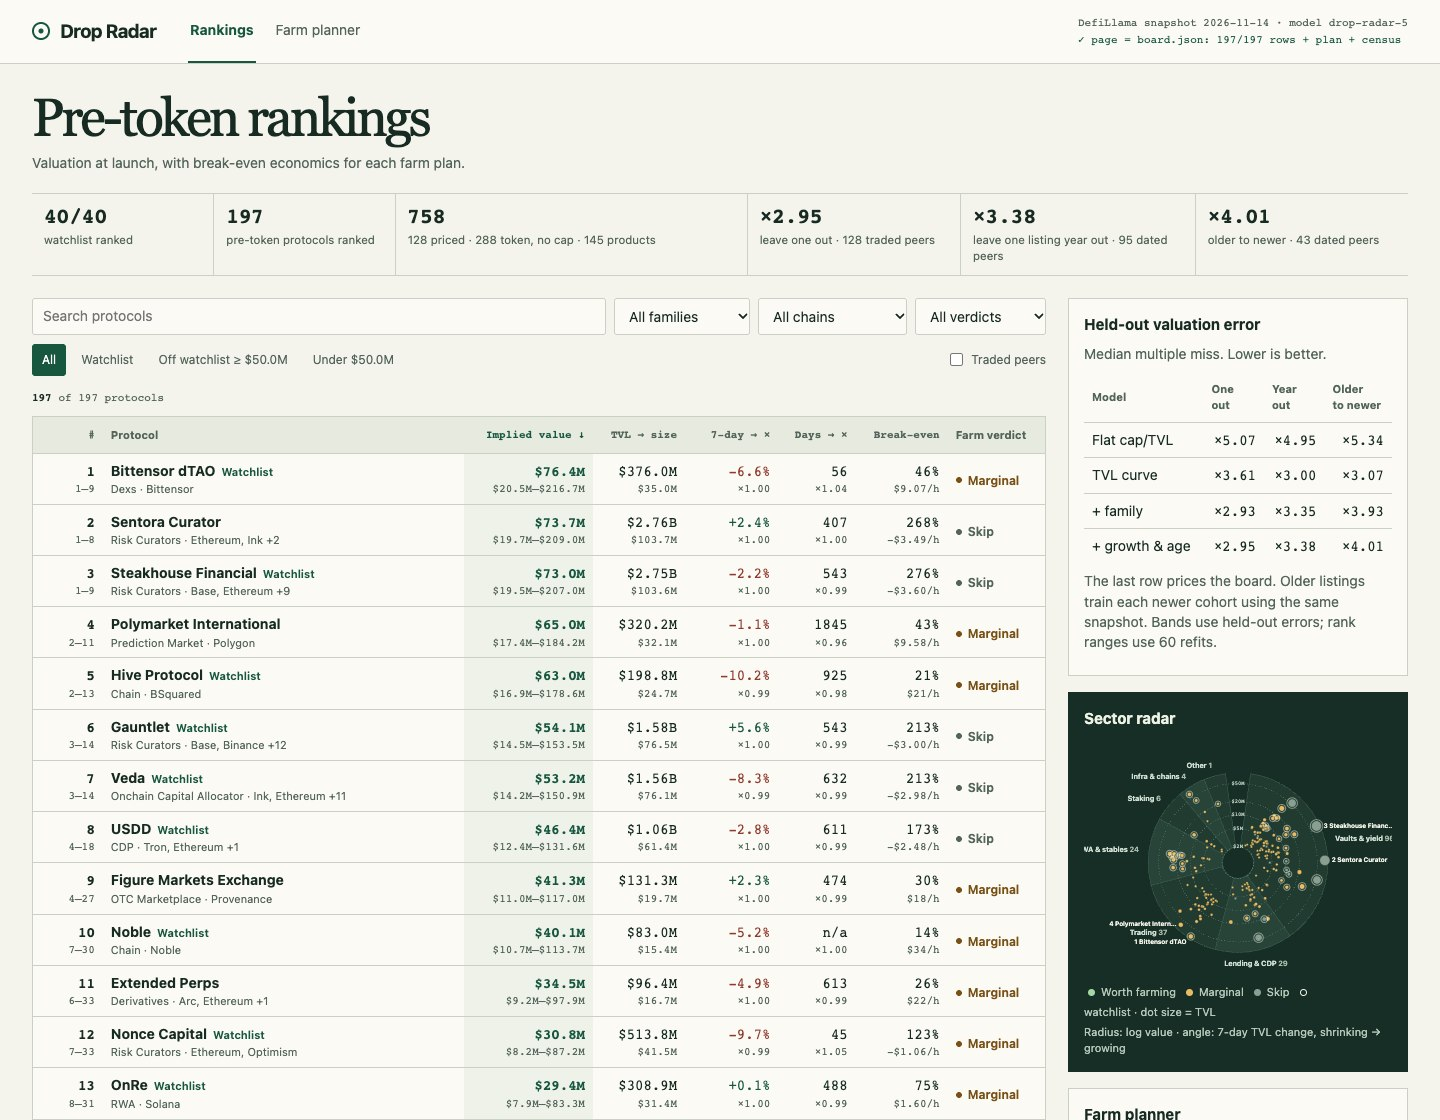
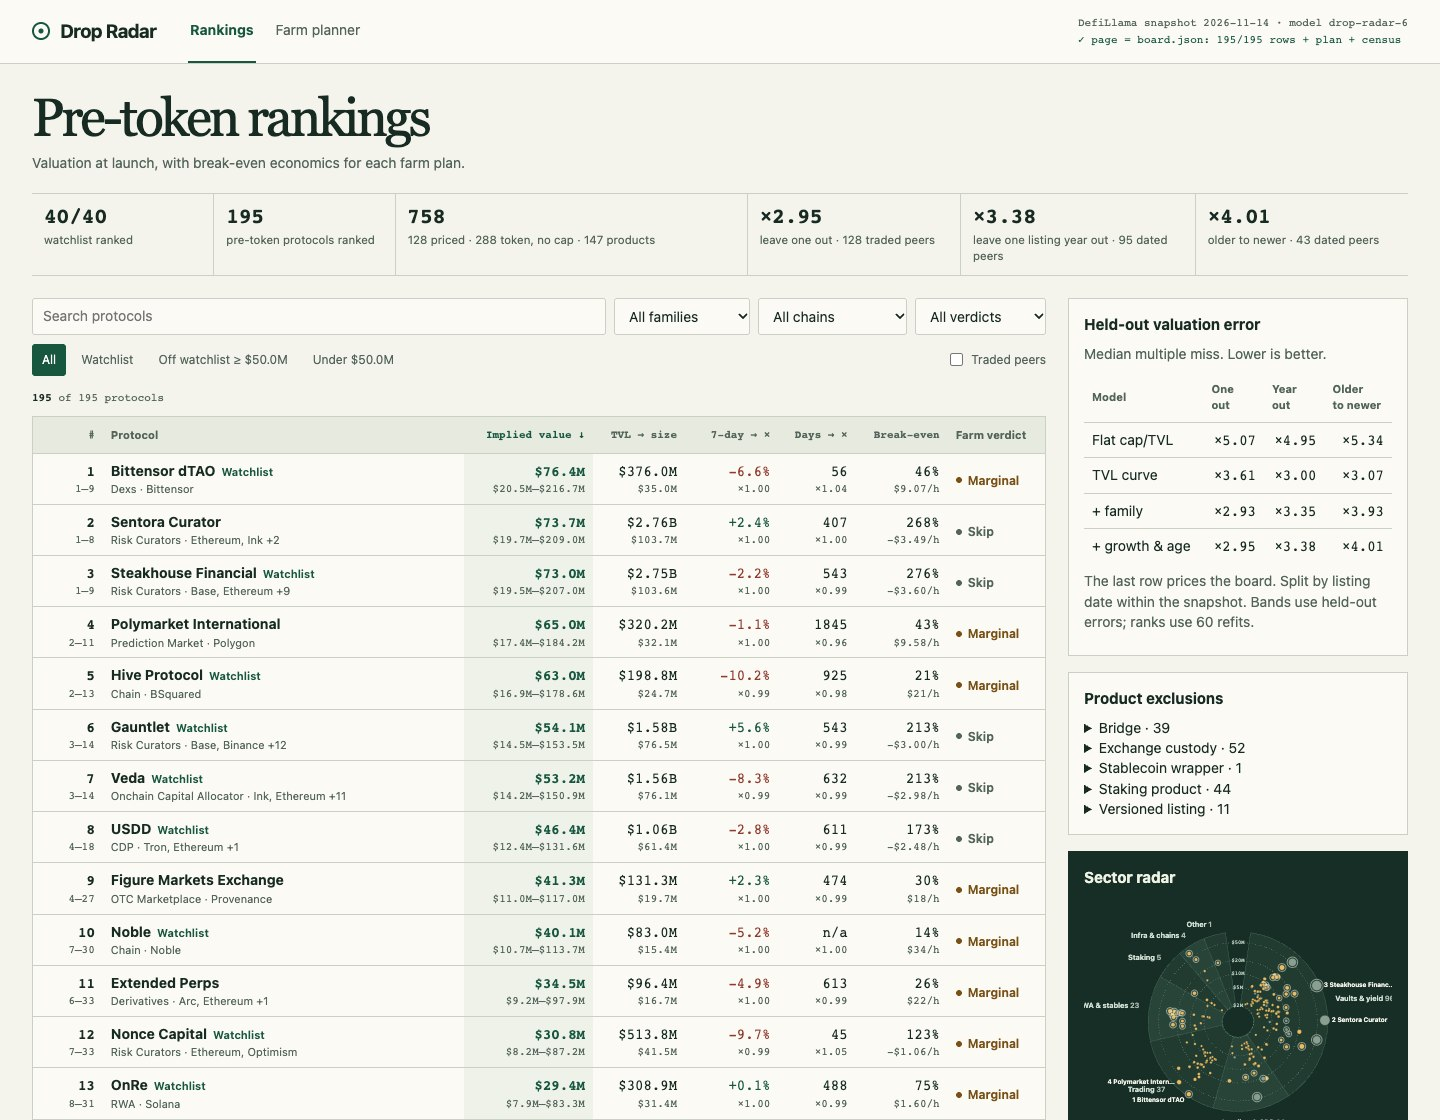
fix: audit derivative products and require supported farm routes

Changed region(s): [[0.7188, 0.5, 1.0, 1.0]]

diff --git a/dashboard/model.js b/dashboard/model.js
@@ -1,11 +1,9 @@
-/* Drop Radar model (drop-radar-5). One file, two hosts: the browser page loads it as a script and main.ts
- * requires it, so board.json and the page come from the same function, buildRadar(snapshot).
- * Standard JavaScript only; deterministic (no clock, seeded resampling). No protocol name appears here. */
+/* Deterministic model shared by main.ts and the offline dashboard. */
 (function (root) {
   'use strict';
 
   var CFG = {
-    version: 'drop-radar-5',
+    version: 'drop-radar-6',
     shrink_k: 4,          // pseudo-peers pulling a family tilt toward 1
     growth_lo: -25, growth_hi: 40, factor_penalty: 100,
     drop_share: 0.10,     // airdrop share of the implied FDV
@@ -15,7 +13,7 @@
   };
 
   var FAMILIES = ['Vaults & yield', 'Lending & CDP', 'Trading', 'RWA & stables', 'Staking', 'Infra & chains', 'Other'];
-  var EXCLUDED = { 'CEX': 1, 'Bridge': 1, 'Cross Chain Bridge': 1, 'Canonical Bridge': 1, 'Liquid Staking': 1, 'Liquid Restaking': 1, 'Restaked BTC': 1 };
+  var STAKED = ['Liquid Staking', 'Liquid Restaking', 'Restaked BTC'];
 
   function familyOf(cat) {
     var c = String(cat || '').toLowerCase();
@@ -30,10 +28,15 @@
 
   function isPreToken(p) { return p.mcap_usd === null && p.gecko_id === null && p.symbol === null; }
 
-  function isProduct(p) {
-    if (EXCLUDED[p.category]) return true;
-    if (/^(binance|coinbase|bybit|kraken|bitget|okx|bitfinex|gemini)\b/i.test(p.name)) return true;
-    return /\b(wrapped|staked|staking)\b/i.test(p.name) || /\s(v\d+(\.\d+)?|\d+\.\d+)$/i.test(p.name);
+  function productType(p, stakedTokens) {
+    if (p.category === 'CEX' || /^(binance|coinbase|bybit|kraken|bitget|okx|bitfinex|gemini)\b/i.test(p.name)) return 'Exchange custody';
+    if (['Bridge', 'Cross Chain Bridge', 'Canonical Bridge'].includes(p.category)) return 'Bridge';
+    if (p.category === 'Stablecoin Wrapper') return 'Stablecoin wrapper';
+    if (STAKED.includes(p.category) || /\b(staked|staking)\b/i.test(p.name) ||
+        (p.category === 'Restaking' && p.slug.split('-').some(function (part) { return stakedTokens.has(part); }))) return 'Staking product';
+    if (/\bwrapped\b/i.test(p.name)) return 'Wrapped asset';
+    if (/\s(v\d+(\.\d+)?|\d+\.\d+)$/i.test(p.name)) return 'Versioned listing';
+    return '';
   }
 
   var L = function (x) { return Math.log(x) / Math.LN10; };
@@ -134,13 +137,13 @@
   function money(x) { var s = x < 0 ? '-' : ''; x = Math.abs(x); return s + (x >= 1e6 ? '$' + (x / 1e6).toFixed(1) + 'M' : x < 10 ? '$' + x.toFixed(2) : '$' + Math.round(x).toLocaleString('en-US')); }
 
   var PLAY = {
-    'Vaults & yield': { verb: 'If {N} offers a USDC vault on {C}, deposit up to {D} and keep the shares; otherwise confirm the supported asset or stop', tx: 2, weeks: 8, mid: 'verify recorded points and use the withdrawal preview to estimate exit costs' },
-    'Lending & CDP': { verb: 'Supply {D} of USDC on {N} on {C}, where the asset is supported. Borrow up to 20% only if an official points program counts borrowing and the health factor stays above 3', tx: 3, weeks: 8, mid: 'recheck health and repay the loan if its funding cost exceeds the plan' },
+    'Vaults & yield': { verb: 'On {C}, deposit up to {D} in an eligible {N} vault using its supported asset. Keep the shares.', tx: 2, weeks: 8, mid: 'verify recorded points and use the withdrawal preview to estimate exit costs' },
+    'Lending & CDP': { verb: 'Supply up to {D} in a supported market on {N} on {C}. Use a supply-only position; this plan has no borrowing budget.', tx: 3, weeks: 8, mid: 'confirm supply activity was credited and preview the full withdrawal' },
     'Trading': { verb: 'On {N} on {C}, quote a spot swap up to {Q}. Use a route credited to this protocol and keep the receipt, or skip if none is available', tx: 2, weeks: 6, mid: 'check the credited activity before repeating one small swap' },
     'Perps': { verb: 'On {N} on {C}, use an officially eligible market for one open-and-close trade up to {Q} at 1x; close the position the same day', tx: 3, weeks: 6, mid: 'verify eligible fills and use the same size for a second round trip only within the fee cap' },
     'RWA & stables': { verb: 'Subscribe {D} to {N}\'s main product on {C} after checking its minimum ticket and redemption window', tx: 2, weeks: 8, mid: 're-read the product page and confirm the position accrues; redeem nothing early' },
     'Staking': { verb: 'Stake {D} through {N}\'s own interface on {C}, choosing the option with no lock-up or the shortest one', tx: 2, weeks: 8, mid: 'claim or restake any reward once, a second dated action' },
-    'Infra & chains': { verb: 'Bridge {D} onto {N}{OC} and use 3 of its own apps: a swap, a lend and a liquidity position', tx: 6, weeks: 6, mid: 'repeat one swap and one deposit so activity spans more than one week' },
+    'Infra & chains': { verb: 'On {C}, verify an eligible {N} activity. Allocate up to {D} only where the docs list the route and action.', tx: 6, weeks: 6, mid: 'confirm credited activity and repeat it if the program is active' },
     'Other': { verb: 'Use {N}\'s core product on {C} with {D}: one deposit or action now', tx: 3, weeks: 6, mid: 'repeat the core action once so the address shows two dates' },
   };
 
@@ -149,20 +152,19 @@
     var cc = cheapestChain(r.chains), g = cc.gas;
     var trading = r.family === 'Trading', pb = PLAY[/derivative|perp/i.test(r.category) ? 'Perps' : r.family], W = pb.weeks;
     var execution = trading ? D * 0.003 : 0;
-    var fill = function (s) { return s.replace(/\{OC\}/g, cc.chain === r.name ? '' : ' (' + cc.chain + ')').replace(/\{D\}/g, money(D)).replace(/\{Q\}/g, money(D / 4)).replace(/\{N\}/g, r.name).replace(/\{C\}/g, cc.chain); };
+    var fill = function (s) { return s.replace(/\{D\}/g, money(D)).replace(/\{Q\}/g, money(D / 4)).replace(/\{N\}/g, r.name).replace(/\{C\}/g, cc.chain); };
     var stop = Math.round(r.tvl * (1 - clamp(Math.abs(r.ch7 || 0) * 2 / 100, 0.1, 0.4)));
     var kyc = r.family === 'RWA & stables', d1 = kyc ? 3 : 1;
-    // at: the day a step falls on (weekly: every held week; neither: it fires only on an event).
     var steps = [
-      { when: 'day 0', at: 0, text: 'Open ' + r.name + ' from its DefiLlama listing, bookmark that domain, and read its docs on points, rewards and withdrawals; never use a link from a reply or DM.', cost: 0, min: 20 },
-      kyc ? { when: 'day 0', at: 0, text: 'Pass ' + r.name + '\'s KYC if it asks for one; allow 1 to 3 days before you deposit, and skip the row if it is closed to your country.', cost: 0, min: 30 }
-          : { when: 'day 0', at: 0, text: 'Note ' + r.name + '\'s minimum deposit and withdrawal delay; if funds lock for longer than ' + W + ' weeks, shrink the deposit or skip.', cost: 0, min: 10 },
-      { when: 'day ' + d1, at: d1, text: 'Move ' + money(D) + ' of USDC and about ' + money(Math.max(0.5, g * 10)) + ' of gas to one wallet on ' + cc.chain + ', the cheapest of up to three listed chains (one transaction there costs about ' + money(g) + ').', cost: 1 + g, min: 15 },
+      { when: 'day 0', at: 0, text: 'Find ' + r.name + ' on DefiLlama and bookmark its official site. Check rewards, eligible markets and withdrawal rules.', cost: 0, min: 20 },
+      kyc ? { when: 'day 0', at: 0, text: 'Check ' + r.name + '\'s region and identity requirements. Allow up to 3 days for approval if required.', cost: 0, min: 30 }
+          : { when: 'day 0', at: 0, text: 'Confirm ' + r.name + '\'s minimum and withdrawal delay. Skip if the lock exceeds ' + W + ' weeks.', cost: 0, min: 10 },
+      { when: 'day ' + d1, at: d1, text: 'Quote a route for ' + money(D) + ' in the accepted asset and ' + money(Math.max(0.5, g * 10)) + ' of native gas on ' + cc.chain + '. Fund only if the exact market and route are supported.', cost: 1 + g, min: 15 },
       { when: 'day ' + d1, at: d1, text: fill(pb.verb) + (trading ? '. Allow ' + money(execution / 2) + ' for execution fees and slippage, separate from gas.' : '.'), cost: g * pb.tx + execution / 2, min: 20 },
       { when: 'weekly x' + W, weekly: true, text: 'Each week, check ' + r.name + '\'s TVL on DefiLlama against the stop level ' + money(stop) + ' and log the position\'s balance and any points shown.', cost: 0, min: 5 * W },
       { when: 'day ' + Math.round(W * 3.5), at: Math.round(W * 3.5), text: 'Midway, ' + fill(pb.mid) + '.', cost: g * 2 + execution / 2, min: 15 },
       { when: 'any day', text: 'Stop rule: if TVL falls below ' + money(stop) + ', exit when withdrawals are available. If paused, cancel new deposits and track the official status.', cost: g * 2, min: 10 },
-      { when: 'day ' + W * 7, at: W * 7, text: 'After ' + W + ' weeks, withdraw the ' + money(D) + ' and bridge it back, unless a points season is announced that rewards holding longer.', cost: 1 + g * 2, min: 15 },
+      { when: 'day ' + W * 7, at: W * 7, text: 'At week ' + W + ', use the verified exit route and withdraw the position. Recalculate costs before extending the hold.', cost: 1 + g * 2, min: 15 },
       { when: 'if a token launches', text: 'Claim only through the domain bookmarked on day 0, never through a link someone sends you; sell or hold by your own rule, not the chart.', cost: g, min: 10 },
     ];
     var fees = steps.reduce(function (s, x) { return s + x.cost; }, 0);
@@ -172,7 +174,6 @@
     var odds = (fees + forgone) / slice, oddsLo = odds * r.implied / r.lo, oddsHi = odds * r.implied / r.hi;
     var verdict = oddsLo <= CFG.worth ? 'Worth farming' : oddsHi > CFG.marginal ? 'Skip' : 'Marginal';
     return { deposit: D, chain: cc.chain, gas: g, weeks: W, stop: stop, steps: steps, fees: fees, execution: execution, forgone: forgone, minutes: minutes, slice: slice, odds: odds, net_hour: (slice - fees - forgone) / (minutes / 60), verdict: verdict,
-      // The same arithmetic at the value band's two ends: how far the verdict leans on the point estimate.
       odds_lo: oddsLo, odds_hi: oddsHi };
   }
 
@@ -225,7 +226,8 @@
   function buildRadar(snap) {
     var asOf = snap.as_of, watch = {};
     snap.watchlist.forEach(function (s) { watch[s] = 1; });
-    var pts = [], rows = [];
+    var pts = [], rows = [], exclusions = {};
+    var stakedTokens = new Set(snap.protocols.filter(function (p) { return STAKED.includes(p.category); }).map(function (p) { return p.slug; }));
     var census = { ranked: 0, priced: 0, unpricedToken: 0, products: 0, unusable: 0 };
     snap.protocols.forEach(function (p) {
       if (p.mcap_usd > 0 && p.tvl_usd > 0) {
@@ -242,12 +244,17 @@
       var w = !!watch[p.slug];
       if (!w && p.tvl_usd <= 0) { census.unusable++; return; }
       if (!w && !isPreToken(p)) { census[p.mcap_usd > 0 ? 'priced' : 'unpricedToken']++; return; }
-      if (!w && isProduct(p)) { census.products++; return; }
+      var product = productType(p, stakedTokens);
+      if (!w && product) {
+        (exclusions[product] = exclusions[product] || []).push(p.name);
+        census.products++;
+        return;
+      }
       census.ranked++;
       var f = features(p, asOf), implied = Math.max(1, Math.round(Math.pow(10, predictLog(fit, f))));
       var size = Math.pow(10, fit.curve.a + fit.curve.b * f.x);
       rows.push({ slug: p.slug, name: p.name, category: p.category || 'Uncategorised', family: f.fam,
-        chains: p.chains, tvl: p.tvl_usd, ch7: p.change_7d, age: f.age, features: f, watch: w, above: p.tvl_usd >= snap.floor_usd,
+        chains: p.chains, tvl: p.tvl_usd, ch7: p.change_7d, age: f.age, features: f, product: product, watch: w, above: p.tvl_usd >= snap.floor_usd,
         f: { size: size, tilt: Math.pow(10, fit.tilts[f.fam].log), mom: Math.pow(10, fit.growth * f.g),
           season: Math.pow(10, fit.age * f.d), peers: fit.tilts[f.fam].peers }, implied: implied,
         lo: Math.max(1, Math.round(implied * Math.pow(10, bandLo))), hi: Math.round(implied * Math.pow(10, bandHi)) });
@@ -267,7 +274,6 @@
     rows.forEach(function (r, i) { r.rlo = Math.round(quantile(seen[i], 0.1)); r.rhi = Math.round(quantile(seen[i], 0.9)); r.plan = farmPlan(r); });
 
     var peersOf = function (r) {
-      // nearest by TVL among the family's peers inside the middle of its multiples, so one outlier never reads as the evidence
       var ms = pts.filter(function (p) { return p.fam === r.family; }).map(function (p) { return p.mcap / p.tvl; }), lo = quantile(ms, 0.1), hi = quantile(ms, 0.9);
       return pts.filter(function (p) { return p.fam === r.family && p.mcap / p.tvl >= lo && p.mcap / p.tvl <= hi; })
         .sort(function (a, b) { return Math.abs(a.x - L(r.tvl / 1e8)) - Math.abs(b.x - L(r.tvl / 1e8)); }).slice(0, 3)
@@ -276,7 +282,7 @@
     rows.forEach(function (r) { r.peers = peersOf(r); });
 
     return { cfg: CFG, as_of: asOf, source: snap.source, floor: snap.floor_usd, universe: snap.protocols.length, watch_n: snap.watchlist.length,
-      census: census, fit: fit, oos: oos, cohort: cohort, newer: outOfSample(pts, 'newer'), traded: pts, rows: rows };
+      census: census, exclusions: exclusions, fit: fit, oos: oos, cohort: cohort, newer: outOfSample(pts, 'newer'), traded: pts, rows: rows };
   }
 
   function boardRows(radar) {

diff --git a/dashboard/radar.js b/dashboard/radar.js
@@ -15,7 +15,7 @@
   var matched = M.boardRows(R).filter(function (row, i) { return same(row, B.rows[i]); }).length;
   var P0 = M.planPortfolio(R);
   var planOk = same(B.portfolio.picks, P0.picks.map(function (q) { return q.r.slug + ':' + q.deposit + ':' + q.start; }));
-  var censusOk = same(R.census, B.census) && Object.values(R.census).reduce(function (a, b) { return a + b; }, 0) === R.universe;
+  var censusOk = same(R.census, B.census) && same(R.exclusions, B.exclusions) && Object.values(R.exclusions).flat().length === R.census.products && Object.values(R.census).reduce(function (a, b) { return a + b; }, 0) === R.universe;
   var verified = matched === B.rows.length && matched === R.rows.length && planOk && censusOk;
   document.getElementById('stamp').innerHTML = 'DefiLlama snapshot ' + esc(R.as_of) + ' &middot; model ' + esc(R.cfg.version) +
     ' <span class="check ' + (verified ? 'ok' : 'bad') + '">' + (verified ? '&#10003;' : '&#10007;') + ' page = board.json: ' + matched + '/' + B.rows.length + ' rows' + (planOk ? ' + plan' : '') + (censusOk ? ' + census' : '') + '</span>';
@@ -123,12 +123,14 @@
         return '<tr><td>' + m[0] + '</td>' + [R.oos,R.cohort,R.newer].map(function (test) {
           return '<td class="num">&times;' + test[m[1]].toFixed(2) + '</td>';
         }).join('') + '</tr>';
-      }).join('') + '</tbody></table><p class="mute">The last row prices the board. Older listings train each newer cohort using the same snapshot. Bands use held-out errors; rank ranges use ' + R.cfg.boot + ' refits.</p></section>';
+      }).join('') + '</tbody></table><p class="mute">The last row prices the board. Split by listing date within the snapshot. Bands use held-out errors; ranks use ' + R.cfg.boot + ' refits.</p></section>';
   }
 
-  function planCard() {
-    return '<section class="card"><h3>Farm planner</h3><p class="mute">' + P0.picks.length +
-      ' modeled positions on ' + money(P0.opt.budget) + ' and ' + P0.opt.hours + ' hours per week.</p><a href="#view=plan">Open planner &rarr;</a></section>';
+  function coverageCard() {
+    return '<section class="card"><h3>Product exclusions</h3>' + Object.keys(R.exclusions).sort().map(function (reason) {
+      var names = R.exclusions[reason];
+      return '<details><summary>' + esc(reason) + ' · ' + names.length + '</summary><p>' + names.map(esc).join(', ') + '</p></details>';
+    }).join('') + '</section>';
   }
 
   function protocolLink(r) {
@@ -160,6 +162,7 @@
 
   function rowHtml(r) {
     var tag = r.watch ? '<span class="tag watch">Watchlist</span>' : '', f = r.f;
+    if (r.product) tag += '<span class="tag">' + esc(r.product) + '</span>';
     return '<tr data-slug="' + esc(r.slug) + '"><td class="num"><b>' + r.rank + '</b><small>' + r.rlo + '&ndash;' + r.rhi + '</small></td>' +
       '<td>' + protocolLink(r) + tag + '<small>' + esc(r.category) + ' &middot; ' + esc(r.chains.slice(0, 2).join(', ')) + (r.chains.length > 2 ? ' +' + (r.chains.length - 2) : '') + '</small></td>' +
       '<td class="num"><b class="val">' + usd(r.implied) + '</b><small>' + usd(r.lo) + '&ndash;' + usd(r.hi) + '</small></td>' +
@@ -197,7 +200,7 @@
       '<div class="scroll" tabindex="0" role="region" aria-label="Protocol rankings"><table class="board"><thead><tr>' + COLS.map(function (c) { return '<th scope="col" class="' + c[2] + '" data-sort="' + c[0] + '"' + (S.sort === c[0] ? ' aria-sort="' + (S.dir < 0 ? 'descending' : 'ascending') + '"' : '') + '><button id="sort-' + c[0] + '">' + c[1] + '</button></th>'; }).join('') + '</tr></thead><tbody>' +
       anchors.map(function (p) { return '<tr class="anchor"><td class="num">&ndash;</td><td>' + esc(p.name) + ' <span class="tag">trades</span><small>' + esc(p.category) + ' &middot; reference, not ranked</small></td><td class="num">' + usd(p.mcap) + '<small>market cap</small></td><td class="num">' + usd(p.tvl) + '</td><td colspan="4" class="mute">market ' + (p.mcap / p.tvl).toFixed(2) + '&times; TVL &middot; curve says ' + usd(Math.pow(10, M.predictLog(R.fit, p))) + '</td></tr>'; }).join('') +
       (rows.length ? rows.map(rowHtml).join('') : '<tr><td colspan="8" class="empty">No protocols match these filters.</td></tr>') +
-      '</tbody></table></div></section><aside class="lcol">' + howCard() + '<section class="card radar"><h3>Sector radar</h3>' + sweep(highlight) + '</section>' + planCard() + '</aside></div>';
+      '</tbody></table></div></section><aside class="lcol">' + howCard() + coverageCard() + '<section class="card radar"><h3>Sector radar</h3>' + sweep(highlight) + '</section>' + '</aside></div>';
     wire();
     app.querySelectorAll('.chip').forEach(function (b) { b.onclick = function () { go({ scope: b.dataset.v }); }; });
     app.querySelectorAll('th[data-sort] button').forEach(function (b) { b.onclick = function () { var k = b.parentNode.dataset.sort; go(S.sort === k ? { dir: -S.dir } : { sort: k, dir: k === 'rank' || k === 'name' || k === 'odds' ? 1 : -1 }); }; });
@@ -273,7 +276,7 @@
       return [money(p.deposit * size), money(cost), money(reward - cost), Math.round(100 * cost / reward) + '%'];
     });
     var tile = function (v, k, cls) { return '<div class="tile ' + (cls || '') + '"><b>' + v + '</b><span>' + k + '</span></div>'; };
-    app.innerHTML = '<a class="back" href="#">&larr; Board</a><div class="dhead"><h1>' + esc(r.name) + '</h1><span class="tag">records no token</span>' + (r.watch ? '<span class="tag watch">watchlist</span>' : '') + '<span class="tag">' + esc(r.category) + '</span><span class="tag">' + esc(r.chains.slice(0, 4).join(' · ')) + '</span> <button id="jump">Farm plan &darr;</button></div>' +
+    app.innerHTML = '<a class="back" href="#">&larr; Board</a><div class="dhead"><h1>' + esc(r.name) + '</h1><span class="tag">records no token</span>' + (r.watch ? '<span class="tag watch">watchlist</span>' : '') + (r.product ? '<span class="tag">' + esc(r.product) + '</span>' : '') + '<span class="tag">' + esc(r.category) + '</span><span class="tag">' + esc(r.chains.slice(0, 4).join(' · ')) + '</span> <button id="jump">Farm plan &darr;</button></div>' +
       '<div class="dgrid"><section class="card"><div class="hero"><div><span class="mute">Implied launch value</span><b class="big">' + usd(r.implied) + '</b></div>' +
       '<div><span class="mute">Rank &middot; P10&ndash;P90 of refits</span><b>' + r.rank + ' of ' + R.rows.length + ' &middot; ' + r.rlo + '&ndash;' + r.rhi + '</b></div><div><span class="mute">P25&ndash;P75 band</span><b>' + usd(r.lo) + '&ndash;' + usd(r.hi) + '</b></div></div>' +
       '<h3>Valuation factors</h3><div class="tiles">' + tile(usd(f.size), 'size curve at <b class="k-tvl">' + usd(r.tvl) + ' TVL</b>') + '<i>&times;</i>' + tile(f.tilt.toFixed(2), esc(r.family) + ' tilt, ' + f.peers + ' peers') + '<i>&times;</i>' +

diff --git a/main.ts b/main.ts
@@ -74,7 +74,7 @@ const portfolio = {
   deposit_usd: pf.deposit, fees_usd: Math.round(pf.fees), forgone_usd: Math.round(pf.forgone), minutes: pf.minutes,
   slice_usd: Math.round(pf.slice), slice_band_usd: [Math.round(pf.lo), Math.round(pf.hi)],
 };
-const board = { model: radar.cfg.version, as_of: snapshot.as_of, census: radar.census, portfolio, rows };
+const board = { model: radar.cfg.version, as_of: snapshot.as_of, census: radar.census, exclusions: radar.exclusions, portfolio, rows };
 mkdirSync(out, { recursive: true });
 writeFileSync(join(out, 'board.json'), `${JSON.stringify(board)}\n`);
 writeFileSync(join(out, 'data.js'), `window.SNAPSHOT=${JSON.stringify(snapshot)};\nwindow.BOARD=${JSON.stringify(board)};\n`);
